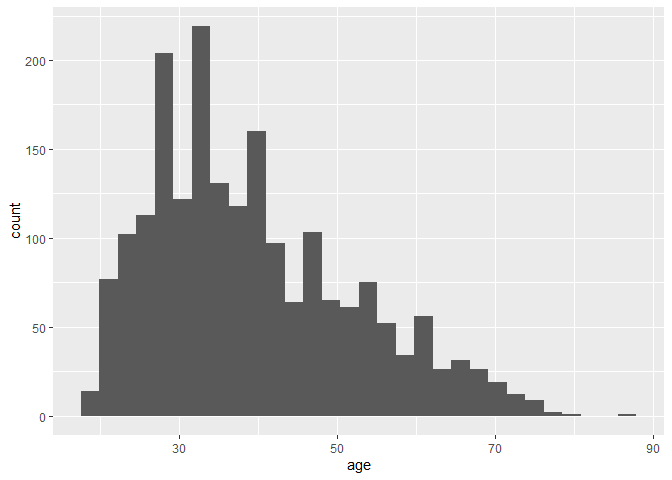
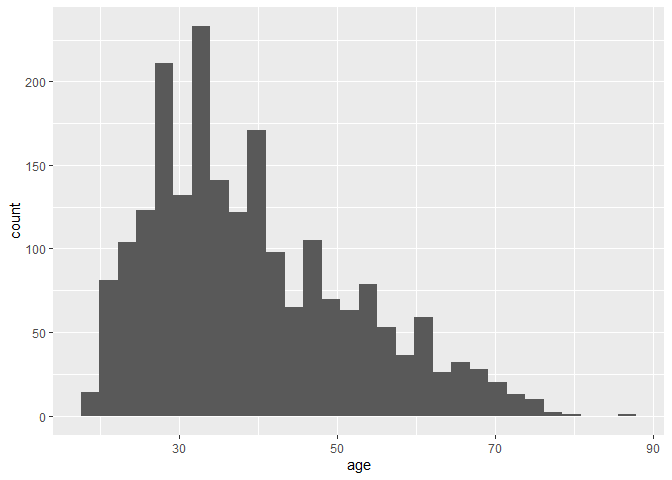
updating data: batch 13, min discriminatory context

diff --git a/04_update_prob/get_qualtrics_data_political_candidates.md b/04_update_prob/get_qualtrics_data_political_candidates.md
@@ -25,7 +25,7 @@ probabilities <- read_csv("../02_output/probabilities.csv")
 probabilities
 ```
 
-    ## # A tibble: 133 × 4
+    ## # A tibble: 140 × 4
     ##    Batch `Embedded data variable` CDF_Threshold `Batch Type`              
     ##    <dbl> <chr>                            <dbl> <chr>                     
     ##  1     0 pi1                              0.125 Warmup                    
@@ -38,7 +38,7 @@ probabilities
     ##  8     1 pi1                              0.071 Iterative Batch Phase: Max
     ##  9     1 pi2                              0.241 Iterative Batch Phase: Max
     ## 10     1 pi3                              0.264 Iterative Batch Phase: Max
-    ## # ℹ 123 more rows
+    ## # ℹ 130 more rows
 
 ``` r
 url <- str_glue("https://{config$datacenter_id}.qualtrics.com")
@@ -53,7 +53,7 @@ survey_name <- "Political Candidates"
 df <- load_qualtrics(survey_name)
 ```
 
-    ##   |                                                                              |                                                                      |   0%  |                                                                              |===========                                                           |  16%  |                                                                              |===============================                                       |  45%  |                                                                              |================================================                      |  69%  |                                                                              |====================================================================  |  98%  |                                                                              |======================================================================| 100%
+    ##   |                                                                              |                                                                      |   0%  |                                                                              |========                                                              |  12%  |                                                                              |======================                                                |  31%  |                                                                              |============================================                          |  63%  |                                                                              |====================================================================  |  98%  |                                                                              |======================================================================| 100%
 
     ## 
     ## ── Column specification ────────────────────────────────────────────────────────
@@ -88,7 +88,7 @@ df %>%
   nrow()
 ```
 
-    ## [1] 2459
+    ## [1] 2559
 
 ``` r
 # drop test data
@@ -101,21 +101,21 @@ df %>%
   nrow()
 ```
 
-    ## [1] 2336
+    ## [1] 2436
 
 ``` r
 # average finished rate
 mean(df$Finished)
 ```
 
-    ## [1] 0.9965753
+    ## [1] 0.9967159
 
 ``` r
 # average time to complete
 mean(df$`Duration (in seconds)`)
 ```
 
-    ## [1] 96.86858
+    ## [1] 96.63752
 
 ``` r
 # compare amount of time spent
@@ -151,7 +151,7 @@ df %>%
   summarize(max_date_time = max(StartDate_clean))
 ```
 
-    ## # A tibble: 6 × 2
+    ## # A tibble: 7 × 2
     ##   date       max_date_time      
     ##   <date>     <dttm>             
     ## 1 2023-12-26 2023-12-26 18:45:16
@@ -160,6 +160,7 @@ df %>%
     ## 4 2024-01-02 2024-01-02 15:04:43
     ## 5 2024-01-03 2024-01-03 18:00:25
     ## 6 2024-01-04 2024-01-04 23:51:20
+    ## 7 2024-01-05 2024-01-05 10:45:55
 
 ``` r
 df <- df %>%
@@ -185,6 +186,7 @@ df <- df %>%
       StartDate_clean <= ymd_hms("2024-01-04-15-55-00") ~ 11,
       StartDate_clean <= ymd_hms("2024-01-04-16-55-00") ~ 12,
       StartDate_clean <= ymd_hms("2024-01-04-23-55-00") ~ 13,
+      StartDate_clean <= ymd_hms("2024-01-05-10-52-00") ~ 14,
       TRUE ~ NA_integer_
     ),
     batch_type = case_when(
@@ -205,7 +207,7 @@ df %>%
     ## `summarise()` has grouped output by 'batch_type'. You can override using the
     ## `.groups` argument.
 
-    ## # A tibble: 18 × 3
+    ## # A tibble: 19 × 3
     ## # Groups:   batch_type [3]
     ##    batch_type                 batch_id     n
     ##    <chr>                         <dbl> <int>
@@ -226,7 +228,8 @@ df %>%
     ## 15 Iterative Batch Phase: Min       11   100
     ## 16 Iterative Batch Phase: Min       12   100
     ## 17 Iterative Batch Phase: Min       13   101
-    ## 18 Warmup                            0   323
+    ## 18 Iterative Batch Phase: Min       14   100
+    ## 19 Warmup                            0   323
 
 ## Survey Validation
 
@@ -252,9 +255,9 @@ if (!all(unique(df$Status) == "IP Address")) {
 
     ## Warning: Test/spam data included in the analysis file
 
-    ## Number of observations in data: 2035
+    ## Number of observations in data: 2135
     ## Status values in data: IP Address, Spam
-    ## Number of observations left in data: 2034
+    ## Number of observations left in data: 2134
 
 ``` r
 # check embedded data variables match probabilities for all iterative batches
@@ -269,7 +272,7 @@ df %>%
   distinct()
 ```
 
-    ## # A tibble: 18 × 8
+    ## # A tibble: 19 × 8
     ##    batch_id   pi1   pi2   pi3   pi4   pi5   pi6   pi7
     ##       <dbl> <dbl> <dbl> <dbl> <dbl> <dbl> <dbl> <dbl>
     ##  1        0 0.125 0.25  0.375 0.5   0.625 0.75  0.875
@@ -290,6 +293,7 @@ df %>%
     ## 16       11 0.023 0.084 0.135 0.522 0.636 0.947 0.981
     ## 17       12 0.032 0.088 0.152 0.467 0.637 0.942 0.979
     ## 18       13 0.046 0.108 0.144 0.455 0.677 0.952 0.978
+    ## 19       14 0.046 0.098 0.158 0.614 0.753 0.946 0.973
 
 ``` r
 # check consent means their responses are missing
@@ -314,7 +318,7 @@ df <- df %>%
     ## Warning in check_consent(.): 1 survey respondents who do not consent with
     ## non-missing responses
 
-    ## Warning in check_consent(.): 2033 respondents in the data
+    ## Warning in check_consent(.): 2133 respondents in the data
 
 ``` r
 # check that all completed
@@ -348,7 +352,7 @@ df <- df %>%
     ## Warning in check_completion(.): Dropping 8 survey respondents who did not
     ## finish
 
-    ## Warning in check_completion(.): 2025 respondents in the data
+    ## Warning in check_completion(.): 2125 respondents in the data
 
 ``` r
 df <- df %>%
@@ -391,12 +395,12 @@ df <- df %>%
     ## Warning in check_commitment(.): Dropping 1 survey respondents did not pass
     ## commitment check 1
 
-    ## Warning in check_commitment(.): 2024 respondents in the data
+    ## Warning in check_commitment(.): 2124 respondents in the data
 
     ## Warning in check_commitment(.): Dropping 2 survey respondents who did not pass
     ## commitment check 2
 
-    ## Warning in check_commitment(.): 2022 respondents in the data
+    ## Warning in check_commitment(.): 2122 respondents in the data
 
 ``` r
 # check ID is unique again
@@ -426,8 +430,8 @@ if (length(unique(df$`Prolific ID Q`)) != nrow(df)) {
 
     ## Warning: ID is not unique
 
-    ## Number of rows in data: 2022
-    ## # A tibble: 2,022 × 8
+    ## Number of rows in data: 2122
+    ## # A tibble: 2,122 × 8
     ##        n StartDate_clean     EndDate             flag_first_obs
     ##    <int> <dttm>              <dttm>                       <dbl>
     ##  1     2 2024-01-03 12:29:24 2024-01-03 12:31:07              1
@@ -440,10 +444,10 @@ if (length(unique(df$`Prolific ID Q`)) != nrow(df)) {
     ##  8     1 2023-12-26 18:01:49 2023-12-26 18:02:38              1
     ##  9     1 2023-12-26 18:01:49 2023-12-26 18:02:59              1
     ## 10     1 2023-12-26 18:01:54 2023-12-26 18:02:47              1
-    ## # ℹ 2,012 more rows
+    ## # ℹ 2,112 more rows
     ## # ℹ 4 more variables: `Duration (in seconds)` <dbl>, Finished <lgl>,
     ## #   batch_id <dbl>, batch_type <chr>
-    ## Number of rows in data after dropping duplicate ID: 2019
+    ## Number of rows in data after dropping duplicate ID: 2119
 
 ``` r
 stopifnot(length(unique(df$`Prolific ID Q`)) == nrow(df))
@@ -478,8 +482,8 @@ df %>%
     ##  6 Iterative Batch Phase: Max 6          32
     ##  7 Iterative Batch Phase: Max 7          11
     ##  8 Iterative Batch Phase: Max 8          39
-    ##  9 Iterative Batch Phase: Min 1          87
-    ## 10 Iterative Batch Phase: Min 2         134
+    ##  9 Iterative Batch Phase: Min 1          92
+    ## 10 Iterative Batch Phase: Min 2         136
     ## # ℹ 14 more rows
 
 ``` r
@@ -491,7 +495,7 @@ df %>%
     ## `summarise()` has grouped output by 'batch_type'. You can override using the
     ## `.groups` argument.
 
-    ## # A tibble: 18 × 3
+    ## # A tibble: 19 × 3
     ## # Groups:   batch_type [3]
     ##    batch_type                 batch_id     n
     ##    <chr>                         <dbl> <int>
@@ -512,7 +516,8 @@ df %>%
     ## 15 Iterative Batch Phase: Min       11   100
     ## 16 Iterative Batch Phase: Min       12   100
     ## 17 Iterative Batch Phase: Min       13   101
-    ## 18 Warmup                            0   317
+    ## 18 Iterative Batch Phase: Min       14   100
+    ## 19 Warmup                            0   317
 
 ``` r
 df %>%
@@ -643,7 +648,7 @@ df_clean %>%
   verify(!is.na(chose_younger))
 ```
 
-    ## # A tibble: 2,019 × 10
+    ## # A tibble: 2,119 × 10
     ##    chose_younger    Q1    Q2    Q3    Q4    Q5    Q6    Q7    Q8 context
     ##            <dbl> <dbl> <dbl> <dbl> <dbl> <dbl> <dbl> <dbl> <dbl> <ord>  
     ##  1             1    NA    NA    NA    NA    NA    NA     1    NA 4      
@@ -656,7 +661,7 @@ df_clean %>%
     ##  8             1    NA    NA    NA    NA    NA     1    NA    NA 6      
     ##  9             1    NA    NA    NA    NA    NA    NA    NA     1 2      
     ## 10             1    NA    NA    NA     1    NA    NA    NA    NA 6      
-    ## # ℹ 2,009 more rows
+    ## # ℹ 2,109 more rows
 
 ``` r
 df_clean %>%
@@ -671,14 +676,14 @@ df_clean %>%
     ## # A tibble: 8 × 4
     ##   context     n resp1 resp0
     ##   <ord>   <int> <dbl> <int>
-    ## 1 1         132   102    30
-    ## 2 2         213   157    56
-    ## 3 3         210   156    54
-    ## 4 4         343   238   105
-    ## 5 5         419   321    98
-    ## 6 6         410   288   122
-    ## 7 7         167   129    38
-    ## 8 8         125    97    28
+    ## 1 1         137   106    31
+    ## 2 2         215   159    56
+    ## 3 3         213   158    55
+    ## 4 4         392   273   119
+    ## 5 5         434   332   102
+    ## 6 6         429   301   128
+    ## 7 7         171   132    39
+    ## 8 8         128    97    31
 
 ``` r
 # identify context desc
@@ -710,7 +715,7 @@ df_clean %>%
     ## # A tibble: 1 × 1
     ##   per_pass_attention_check
     ##                      <dbl>
-    ## 1                    0.960
+    ## 1                    0.959
 
 ``` r
 df_clean <- df_clean %>%
@@ -747,14 +752,14 @@ df_clean %>%
     ## # A tibble: 8 × 3
     ##   race                                  n     per
     ##   <chr>                             <int>   <dbl>
-    ## 1 White                              1452 0.719  
-    ## 2 Black or African American           200 0.0991 
-    ## 3 Asian                               187 0.0926 
-    ## 4 Multiracial                         102 0.0505 
-    ## 5 Other                                36 0.0178 
-    ## 6 Prefer not to disclose               24 0.0119 
-    ## 7 American Indian or Alaskan Native    12 0.00594
-    ## 8 Native Hawaiian                       6 0.00297
+    ## 1 White                              1521 0.718  
+    ## 2 Black or African American           213 0.101  
+    ## 3 Asian                               195 0.0920 
+    ## 4 Multiracial                         106 0.0500 
+    ## 5 Other                                40 0.0189 
+    ## 6 Prefer not to disclose               25 0.0118 
+    ## 7 American Indian or Alaskan Native    12 0.00566
+    ## 8 Native Hawaiian                       7 0.00330
 
 ``` r
 df_clean %>%
@@ -764,7 +769,7 @@ df_clean %>%
 
     ## `stat_bin()` using `bins = 30`. Pick better value with `binwidth`.
 
-    ## Warning: Removed 25 rows containing non-finite values (`stat_bin()`).
+    ## Warning: Removed 26 rows containing non-finite values (`stat_bin()`).
 
 ![](get_qualtrics_data_political_candidates_files/figure-gfm/demog-1.png)<!-- -->
 
@@ -777,8 +782,8 @@ df_clean %>%
     ## # A tibble: 2 × 2
     ##   female count
     ##   <lgl>  <int>
-    ## 1 FALSE   1084
-    ## 2 TRUE     935
+    ## 1 FALSE   1140
+    ## 2 TRUE     979
 
 ``` r
 df_clean %>%
@@ -791,7 +796,7 @@ df_clean %>%
     ## # A tibble: 1 × 2
     ##   count_hispanic per_hispanic
     ##            <int>        <dbl>
-    ## 1            192       0.0951
+    ## 1            199       0.0939
 
 ## Clean Data Validation
 
